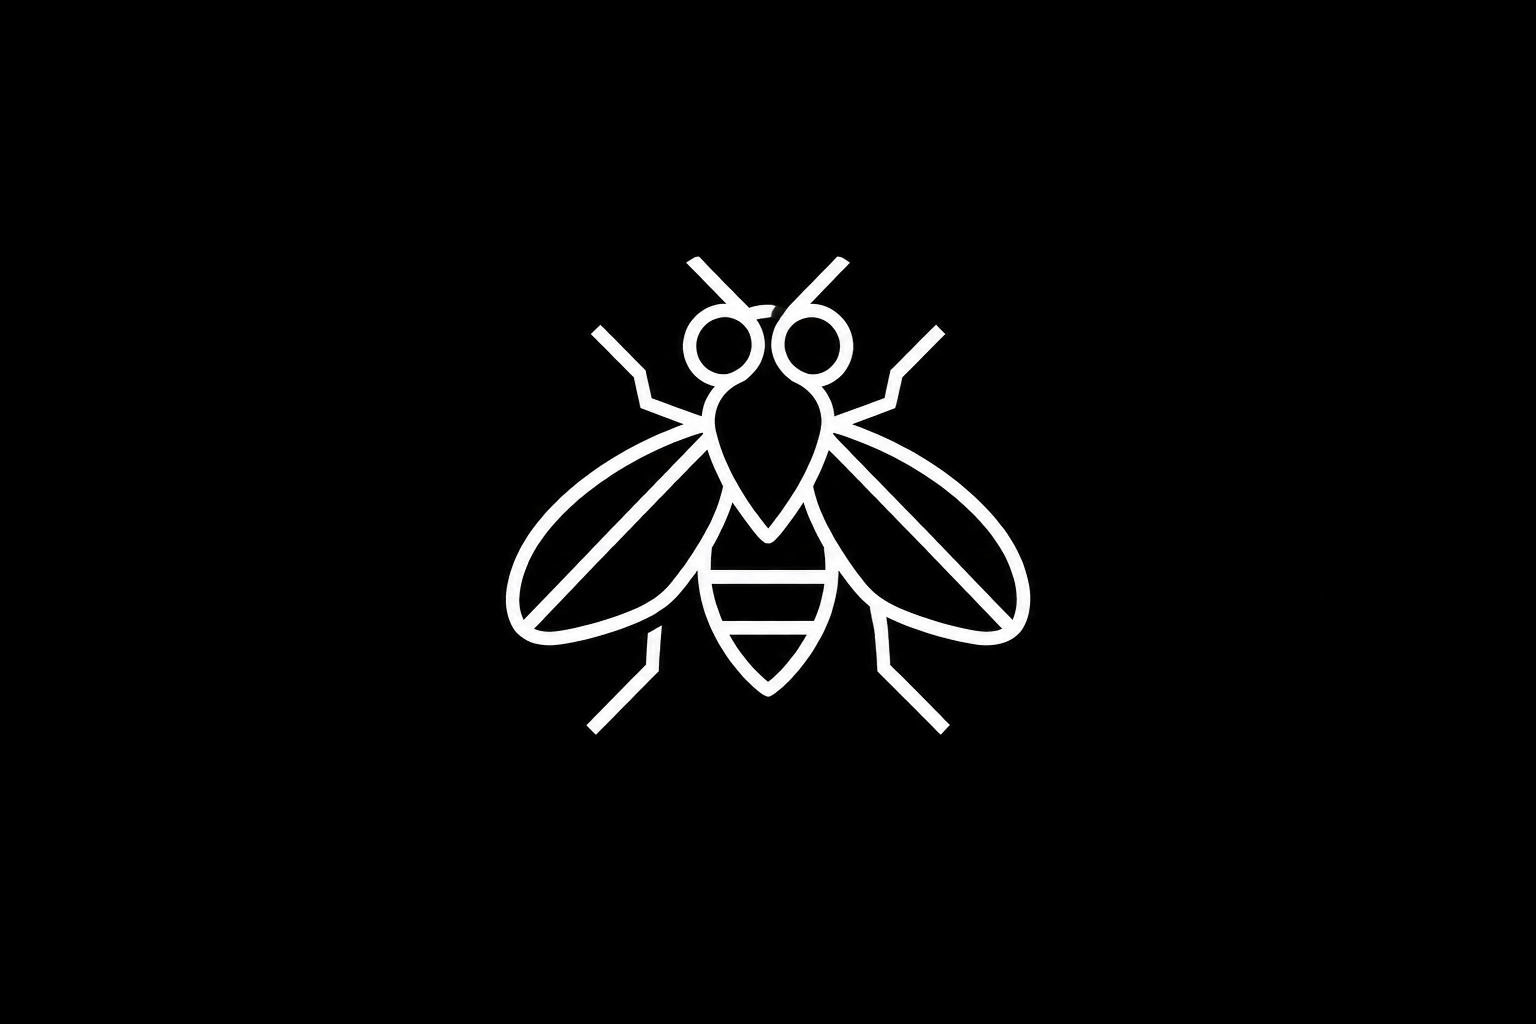
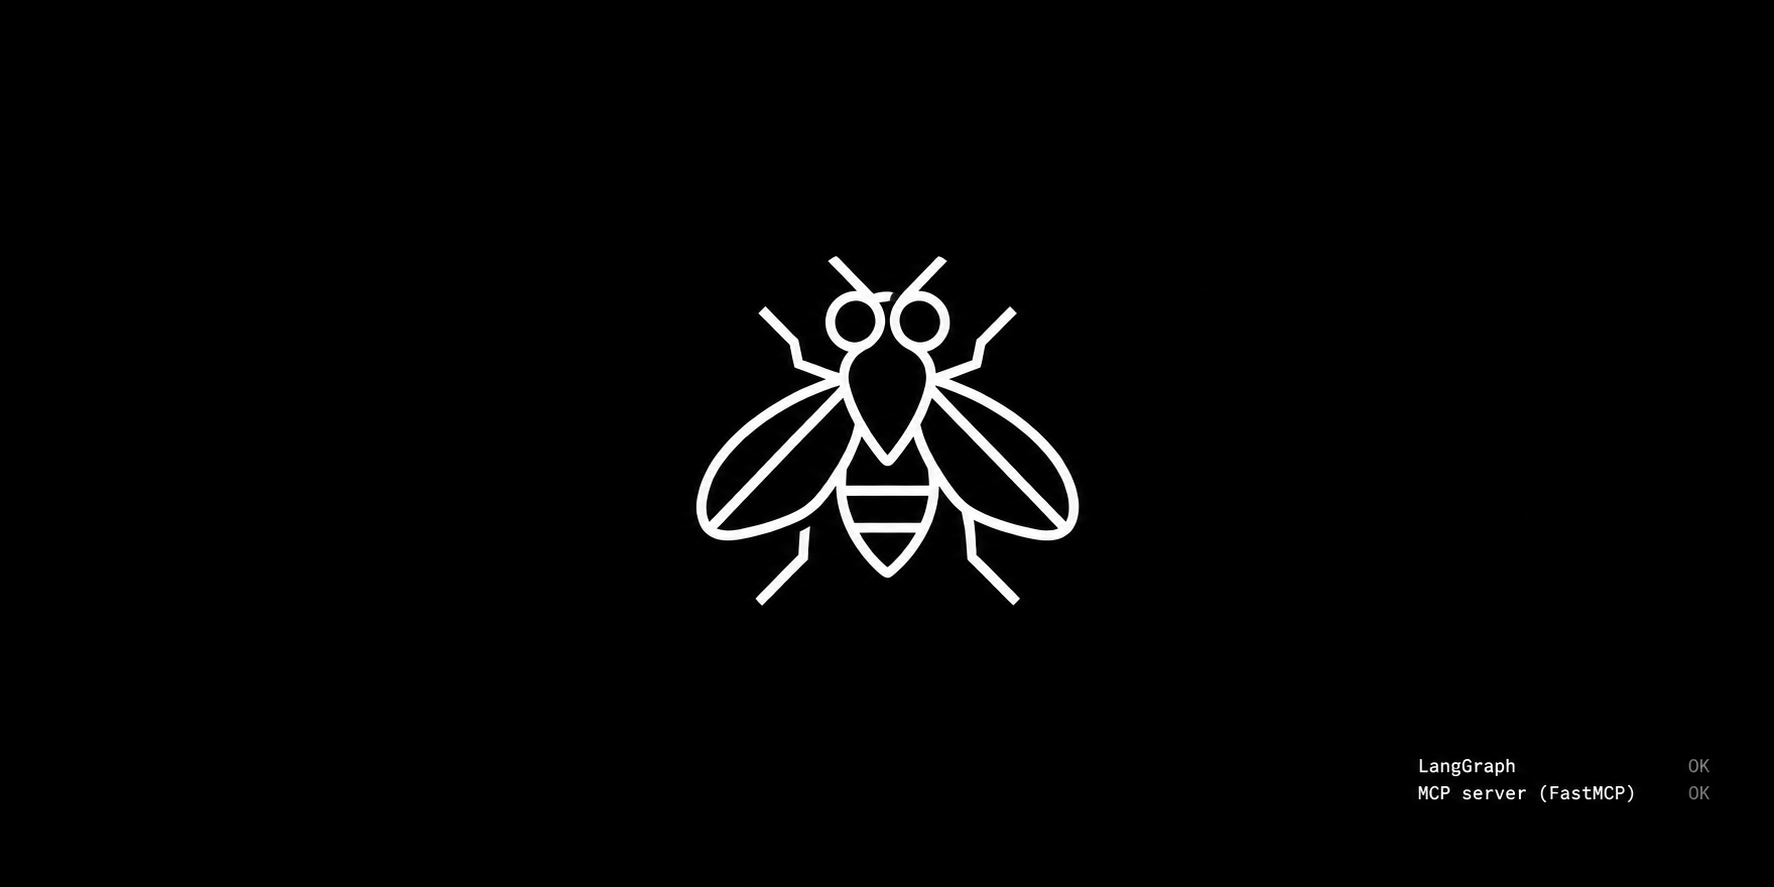
docs(readme): use the cover with the server status panel

Changed region(s): [[0.3125, 0.2435, 0.6875, 0.7306], [0.7812, 0.8523, 0.9688, 0.9132]]

diff --git a/README.md b/README.md
@@ -1,5 +1,5 @@
 <p align="center">
-  <img src="assets/cover.png" alt="fly-brain-agent: a minimal geometric fruit fly drawn in white lines on black" width="640">
+  <img src="assets/cover.png" alt="fly-brain-agent: a minimal fruit fly in white lines on black, with a status panel reading LangGraph OK and MCP server (FastMCP) OK" width="800">
 </p>
 
 # fly-brain-agent
